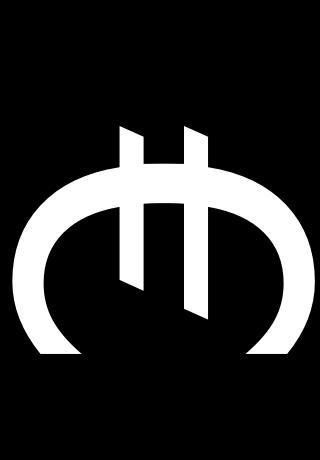
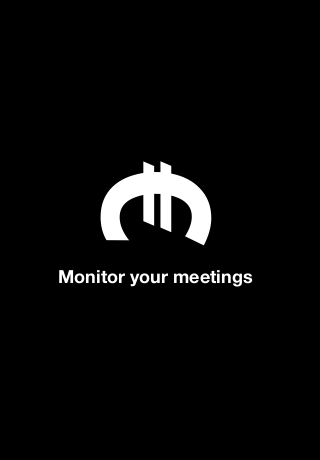
Home screen button responsive css

Changed region(s): [[0.0312, 0.2739, 1.0, 0.7913]]

diff --git a/public/style.less b/public/style.less
@@ -39,10 +39,12 @@
 }
 
 #start-monitoring-form {
-  max-width: 400px;
+  max-width: 320px;
   margin: auto;
   text-align: center;
 }
+
+#
 
 @media only screen and (min-width: 768px) {
   #total {
@@ -64,4 +66,12 @@
 @media only screen and (max-width: 480px) {
   #rest-of-the-title { display: none; }
   #smaller-title { display: block; }
+  #create-meeting-name { width: 96%; }
+  #create-meeting-start { 
+    width: 100%;
+    margin-top: 5px;
+  }
+  #punchline {
+    font-size: 14px;
+  }
 }
